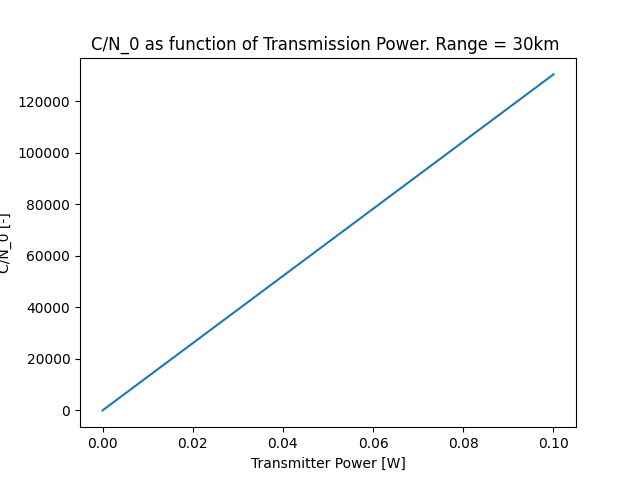
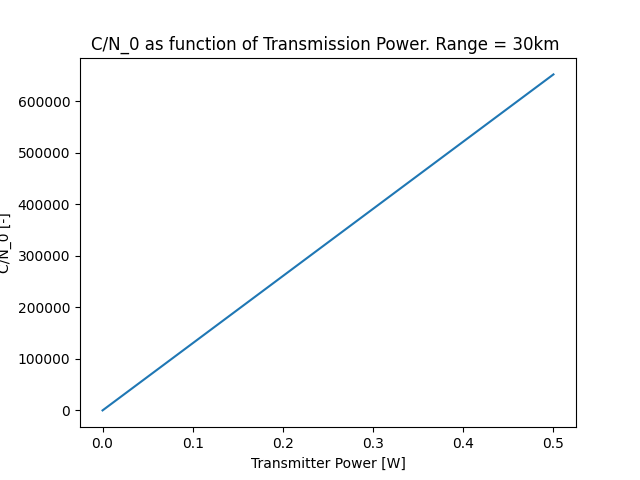
changed figures

diff --git a/DesignTools/Link budget.py b/DesignTools/Link budget.py
@@ -33,14 +33,15 @@ SNR = dB(EIRP) + Ls + La + dB(Gr) - dB(Kb) - dB(Ts) - dB(DR)   #SNR dB
 Eb = C/DR   #Bit energy
 N = Kb * Ts * B  #Noise
 CN_min = 100*DR
-
+print(CN_min)
 
 C_N = Pt*Gt*(lambd/(4*np.pi*R*1000))**2*(Gr/Ts)*1/Kb
-print(CN_min)
+
 #range = 4*np.pi/lambd * np.sqrt((Pt*Gt*(Gr/Ts))/(CN_min*Kb))
 #print(range)
 
-P_lst = np.arange(1*10**(-5), 0.1, 1*10**(-5))
+#P_lst = np.arange(1*10**(-5), 0.1, 1*10**(-5))
+P_lst = np.linspace(1e-5, 0.5, 10000)
 dBm_lst = 10*np.log10(1000*P_lst)
 C_N_P = P_lst*Gt*(lambd/(4*np.pi*R*1000))**2*1/(10**(La/10))*(Gr/Ts)*1/Kb
 plt.plot(P_lst, C_N_P)
@@ -48,24 +49,27 @@ plt.title('C/N_0 as function of Transmission Power. Range = 30km ')
 plt.xlabel('Transmitter Power [W]')
 plt.ylabel('C/N_0 [-]')
 plt.savefig('Figures/C_N_P')
-def dBm(n):
+def W_to_dBm(n):
     dbm = np.zeros(len(n))
     for i in range(len(n)):
-        if n[i] == 0:
-            dbm[i] = 0
+        if n[i] <= 0:
+            dbm[i] = -np.inf
         else:
             dbm[i] = 10*np.log10(1000*n[i])
     return dbm
-def invdBm(n):
-    return 10**(n/10)/1000
+def dBm_to_W(n):
+    W = np.zeros(len(n))
+    for i in range(len(n)):
+        W[i] = 10**(n[i]/10)/1000
+    return W
 #P_lst = np.arange(0, 10, 0.01)
-#f_lst = [390*10**6, 2.1*10**9, 7.2*10**9, 14.5*10**9]
-#f_band = ['UHF', 'S-band', 'X-band', 'Ku-band']
-f_lst = [390*10**6, 435*10**6, 906*10**6, 2025*10**6, 2200*10**6]
+f_lst = [390*10**6, 2.1*10**9, 7.2*10**9, 14.5*10**9]
+f_band = ['UHF', 'S-band', 'X-band', 'Ku-band']
+#f_lst = [390*10**6, 435*10**6, 906*10**6, 2025*10**6, 2200*10**6]
 #f_lst = [435*10**6, 390*10**6, 906*10**6]
 wl_lst = [3*10**8/ f for f in f_lst]
 d_max = [43/(f/10**6)**(1/3) for f in f_lst]
-print(d_max)
+#print(d_max)
 R_array = np.zeros([len(wl_lst),len(P_lst)])
 plt.clf()
 fig, ax = plt.subplots()
@@ -74,13 +78,27 @@ for i in range(len(wl_lst)):
         R_array[i,j] = wl_lst[i]/(4*np.pi) * np.sqrt((P_lst[j]*Gt*(Gr/Ts))/(CN_min*Kb))
 #print(R_array)
 #range = 4*np.pi/lambd * np.sqrt((P_lst*Gt*(Gr/Ts))/(CN_min*Kb)
-for i in range(len(wl_lst)): ax.plot(P_lst, R_array[i,:], label=f"f = {f_lst[i]/10**6} MHz")
+for i in range(len(wl_lst)): ax.plot(dBm_lst, R_array[i,:], label=f"{f_band[i]} = {f_lst[i]/10**6} MHz")
 #plt.plot(dBm_lst,R*np.ones(len(dBm_lst)), label='Range = 20km')
 #plt.title('Range as function of Power. C/N0='+str(round(CN_min,-5)))
-#plt.ylim(1,100)
+plt.ylim(0,250)
+plt.xlim(right=25)
 #plt.yticks(np.arange(0,101,10))
-plt.xlabel('Transmitter Power [W]')
+plt.xlabel('Transmitter Power [dBm]')
 plt.ylabel('range [km]')
+plt.legend(loc=2)
+# Create secondary x-axis (dBm)
+ax2 = ax.twiny()
+#ax2.spines['bot'].set_position(('axes', -0.1))
+ax2.set_xlabel('Transmitter Power [W]')
 
-plt.legend(loc = 2)
-plt.savefig('Figures/R_P')
+# Synchronize the secondary x-axis with primary x-axis
+dbm_ticks = np.array(ax.get_xticks())
+watt_ticks = dBm_to_W(dbm_ticks)
+watt_ticks = watt_ticks[np.isfinite(watt_ticks)]  # Remove any -inf values
+ax2.set_xticks(dbm_ticks)
+ax2.set_xticklabels([f'{w:.3g}' for w in watt_ticks])
+ax2.set_xlim(ax.get_xlim())
+
+plt.savefig('Figures/P_R_2')
+plt.show()

diff --git a/DesignTools/Data_budget.py b/DesignTools/Data_budget.py
@@ -49,11 +49,11 @@ def data():
     data_rate_sens = data_sens()
     other = 0.25*(data_rate_scan+data_rate_sens)
     data = data_rate_scan+data_rate_sens+other
-    table = [['','bits/s', 'MB/s'],
-             ['scanning', data_rate_scan, data_rate_scan/8*10**(-6)],
-             ['sensor data',data_rate_sens, data_rate_sens/8*10**(-6)],
-             ['other', other, other/8*10**(-6)],
-             ['total', data, data/8*10**(-6)]]
+    table = [['','bits/s', 'Mbit/s'],
+             ['scanning', data_rate_scan, data_rate_scan*10**(-6)],
+             ['sensor data',data_rate_sens, data_rate_sens*10**(-6)],
+             ['other', other, other*10**(-6)],
+             ['total', data, data*10**(-6)]]
     #print(tabulate(table, headers='firstrow', tablefmt='fancy_grid'))
     return data, table
 
